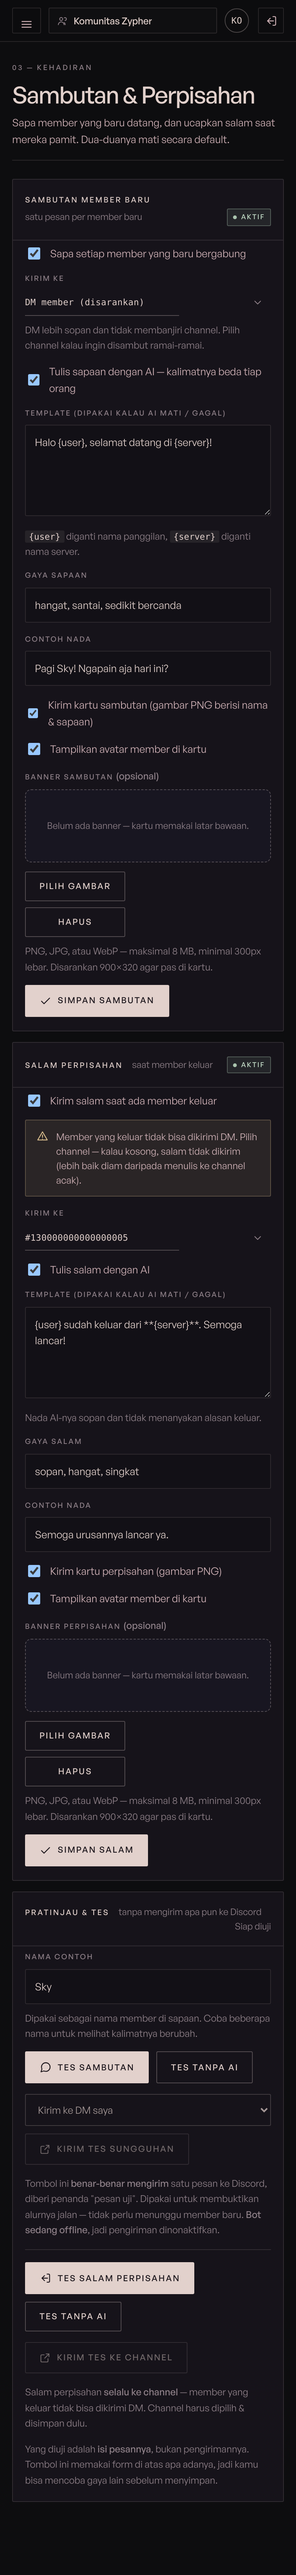
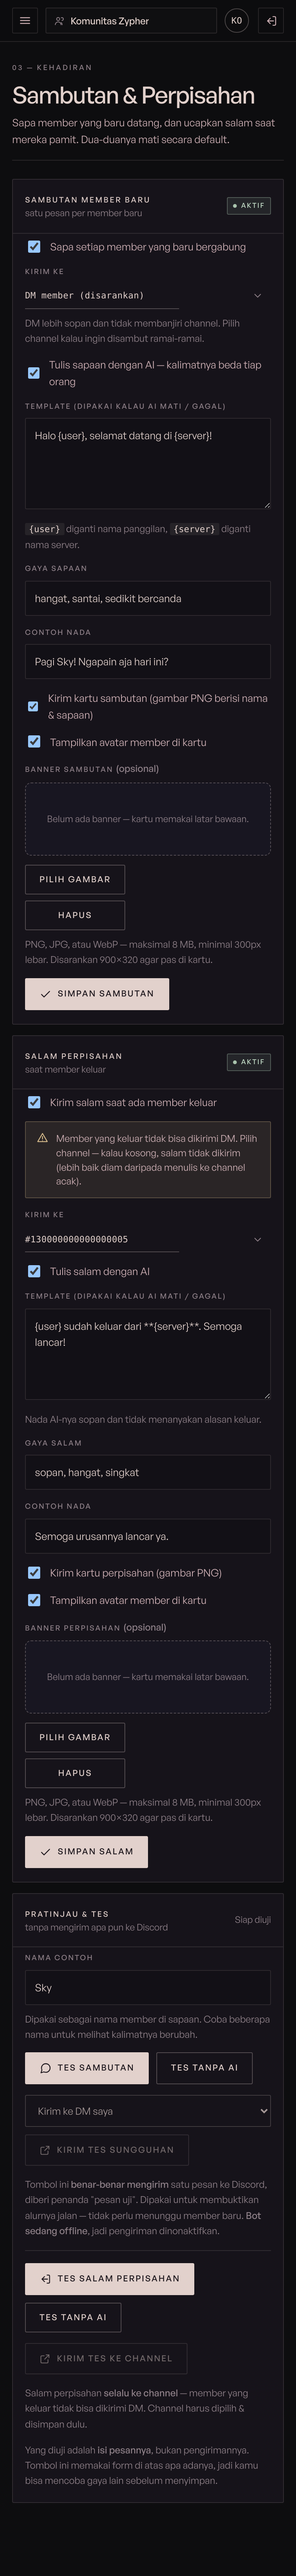
fix(ui): ikon menu tepat di tengah & badge status sejajar judul kartu
Dua keluhan dari screenshot HP:

1. Ikon garis tiga (hamburger) tidak pas tengah.
   Aturan global `button { padding: 12px 18px }` juga mengenai .icon-btn
   berukuran 34x34. Padding itu menyisakan ruang isi 8px, lebih kecil dari
   ikon 18px, sehingga ikon menempel ke atas — terukur 5px turun dari titik
   tengah tombol. .icon-btn kini menolkan padding, line-height, dan flex
   shrink. Sesudah: selisih tengah X/Y = 0, dan ikon tidak bergeser saat
   drawer menu dibuka.

2. Badge "Nonaktif" tidak pas letaknya di judul kartu.
   Di layar <=860px .card-head memakai flex-wrap, jadi badge turun ke baris
   kedua: 38px dari tepi atas kartu tapi hanya 19px dari bawah (judul+hint
   memakan dua baris). Kini card-head memakai grid dua kolom: judul & hint
   menumpuk di kiri, badge tetap di tengah tinggi kartu. Sesudah: 23.5px dari
   atas dan 24.5px dari bawah, seragam di semua kartu.

Diperiksa di 8 halaman x 2 lebar (1440 & 390): tidak ada badge yang melorot,
tidak ada tumpang tindih, tidak ada scroll horizontal.

Verifikasi: typecheck 0 error, 220 test lulus (1 baru untuk regresi CSS),
14 test Postgres, 17 screenshot diregenerasi.

diff --git a/src/web/ui/theme.ts b/src/web/ui/theme.ts
@@ -200,6 +200,11 @@ code {
   display: inline-grid; place-items: center; width: 34px; height: 34px; border-radius: var(--r-sm);
   border: 1px solid var(--line); background: transparent; color: var(--text-2); cursor: pointer;
   transition: color .15s, border-color .15s, background .15s;
+  /* Aturan button global memberi padding 12px 18px. Di kotak 34px itu
+     menyisakan ruang isi hanya 8px, lebih kecil dari ikon 18px, sehingga
+     ikon menempel ke atas (turun 5px dari tengah). Nolkan padding dan
+     jangan biarkan flex mengecilkannya. */
+  padding: 0; flex: 0 0 auto; line-height: 0;
 }
 .icon-btn:hover { color: var(--text); border-color: var(--line-strong); background: rgba(226, 209, 204, .05); }
 .burger { display: none; }
@@ -593,8 +598,19 @@ dialog.confirm::backdrop { background: rgba(8, 6, 9, .8); backdrop-filter: blur(
   .list-row, .kv, details.user-group > summary { padding-left: 16px; padding-right: 16px; }
   .cols-2-even { grid-template-columns: minmax(0, 1fr); }
   .toast { left: 16px; right: 16px; max-width: none; bottom: 16px; }
-  /* Judul kartu + hint + aksi sering tidak muat satu baris di HP. */
-  .card-head { flex-wrap: wrap; row-gap: 4px; }
+  /* Judul kartu + hint + aksi sering tidak muat satu baris di HP. Dulu
+     flex-wrap menaruh badge di baris kedua dan hasilnya terlihat melorot
+     (38px dari tepi atas, 19px dari bawah). Grid dua kolom membuat
+     judul+hint menumpuk di kiri sementara badge tetap di tengah tinggi. */
+  .card-head {
+    display: grid;
+    grid-template-columns: minmax(0, 1fr) auto;
+    align-items: center;
+    column-gap: 12px;
+    row-gap: 3px;
+  }
+  .card-head h2, .card-head .hint { grid-column: 1; }
+  .card-head .right { grid-column: 2; grid-row: 1 / span 2; margin-left: 0; }
 }
 @media (max-width: 520px) {
   .stats { grid-template-columns: repeat(3, minmax(0, 1fr)); gap: 8px; }

diff --git a/scripts/smoke.ts b/scripts/smoke.ts
@@ -2628,6 +2628,25 @@ await testAsync('dashboard: tombol kirim tes ada di kedua halaman', async () => 
   assert.ok(pages.includes('Kirim tes ke channel'), 'tombol agent & perpisahan');
 });
 
+await testAsync('css: ikon di tombol kotak tepat di tengah & badge sejajar judul', async () => {
+  const theme = await readFile('src/web/ui/theme.ts', 'utf8');
+
+  // Aturan global `button { padding: 12px 18px }` menyisakan ruang isi 8px di
+  // kotak 34px, sehingga ikon 18px menempel ke atas (turun 5px dari tengah).
+  const iconStart = theme.indexOf('.icon-btn {');
+  const iconBtn = theme.slice(iconStart, theme.indexOf('}', iconStart) + 1);
+  assert.ok(/padding:\s*0/.test(iconBtn), '.icon-btn menolkan padding dari aturan button');
+
+  // Di HP, flex-wrap dulu menaruh badge di baris kedua (38px dari atas, 19px
+  // dari bawah → terlihat melorot). Sekarang card-head memakai grid 2 kolom.
+  const mobile = theme.slice(theme.indexOf('@media (max-width: 860px)'));
+  const headStart = mobile.indexOf('.card-head {');
+  const head = mobile.slice(headStart, mobile.indexOf('}', headStart) + 1);
+  assert.ok(/display:\s*grid/.test(head), 'card-head di HP memakai grid');
+  assert.ok(/grid-row:\s*1\s*\/\s*span\s*2/.test(mobile), 'badge membentang dua baris judul+hint');
+  assert.equal(/\.card-head\s*\{\s*flex-wrap:\s*wrap/.test(theme), false, 'flex-wrap lama sudah dibuang');
+});
+
 await testAsync('css: baris toggle tidak melebar keluar kartu', async () => {
   // Bug nyata di HP: .toggle-row adalah grid item, sehingga min-width:auto
   // membuatnya selebar teks penjelasan (730px di layar 390px) dan kartu

diff --git a/README.md b/README.md
@@ -455,7 +455,7 @@ Perbandingan lengkap + rekomendasi yang benar-benar gratis: **[docs/hosting.md](
 ```bash
 npm run doctor         # ping tiap provider (chat + streaming) dan laporkan hasilnya
 npm run models         # daftar model yang benar-benar tersedia di provider kamu
-npm run smoke          # 219 test logika inti (termasuk RAG, moderasi, agent, sambutan, banner)
+npm run smoke          # 220 test logika inti (termasuk RAG, moderasi, agent, sambutan, banner)
 npm run smoke:pg       # 14 test jalur Postgres (pg-mem, tanpa server database)
 npm run test:fallback  # uji rantai fallback provider dengan server tiruan
 npm run dashboard      # nyalakan dashboard web saja, tanpa bot Discord

diff --git a/docs/sambutan-agent.md b/docs/sambutan-agent.md
@@ -270,7 +270,7 @@ member baru, sehingga sambutan tidak terkirim.
 ## Uji tanpa Discord
 
 ```bash
-npm run smoke     # 219 test, termasuk logika agent, sambutan & perpisahan
+npm run smoke     # 220 test, termasuk logika agent, sambutan & perpisahan
 ```
 
 Test yang relevan: `agent:` (channel, ramai, jatah per jam, cooldown, sepi),

diff --git a/docs/postgres.md b/docs/postgres.md
@@ -123,7 +123,7 @@ di database (berguna untuk admin yang mau melihat keseluruhan).
 ### Uji tanpa server Postgres
 
 ```bash
-npm run smoke      # 219 test, jalur SQLite
+npm run smoke      # 220 test, jalur SQLite
 npm run smoke:pg   # 14 test, jalur Postgres lewat pg-mem (in-memory)
 ```
 
